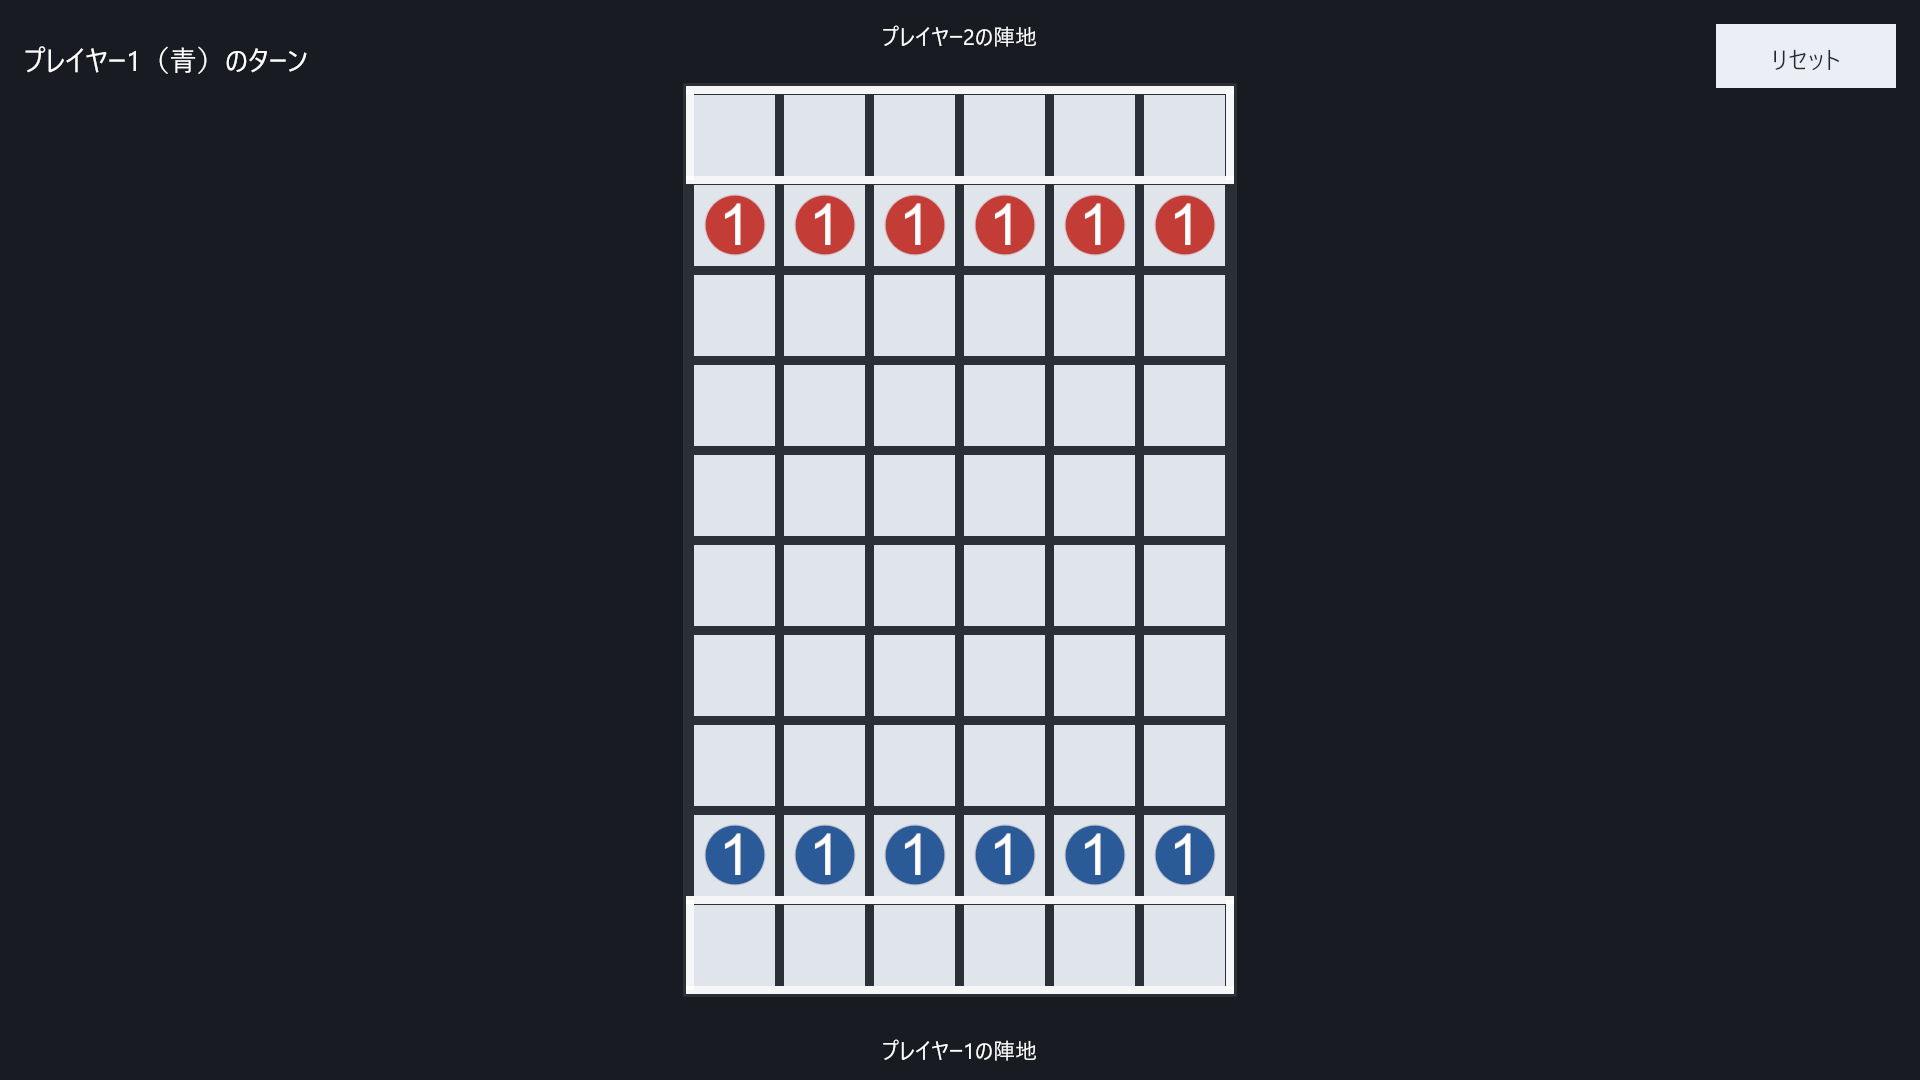
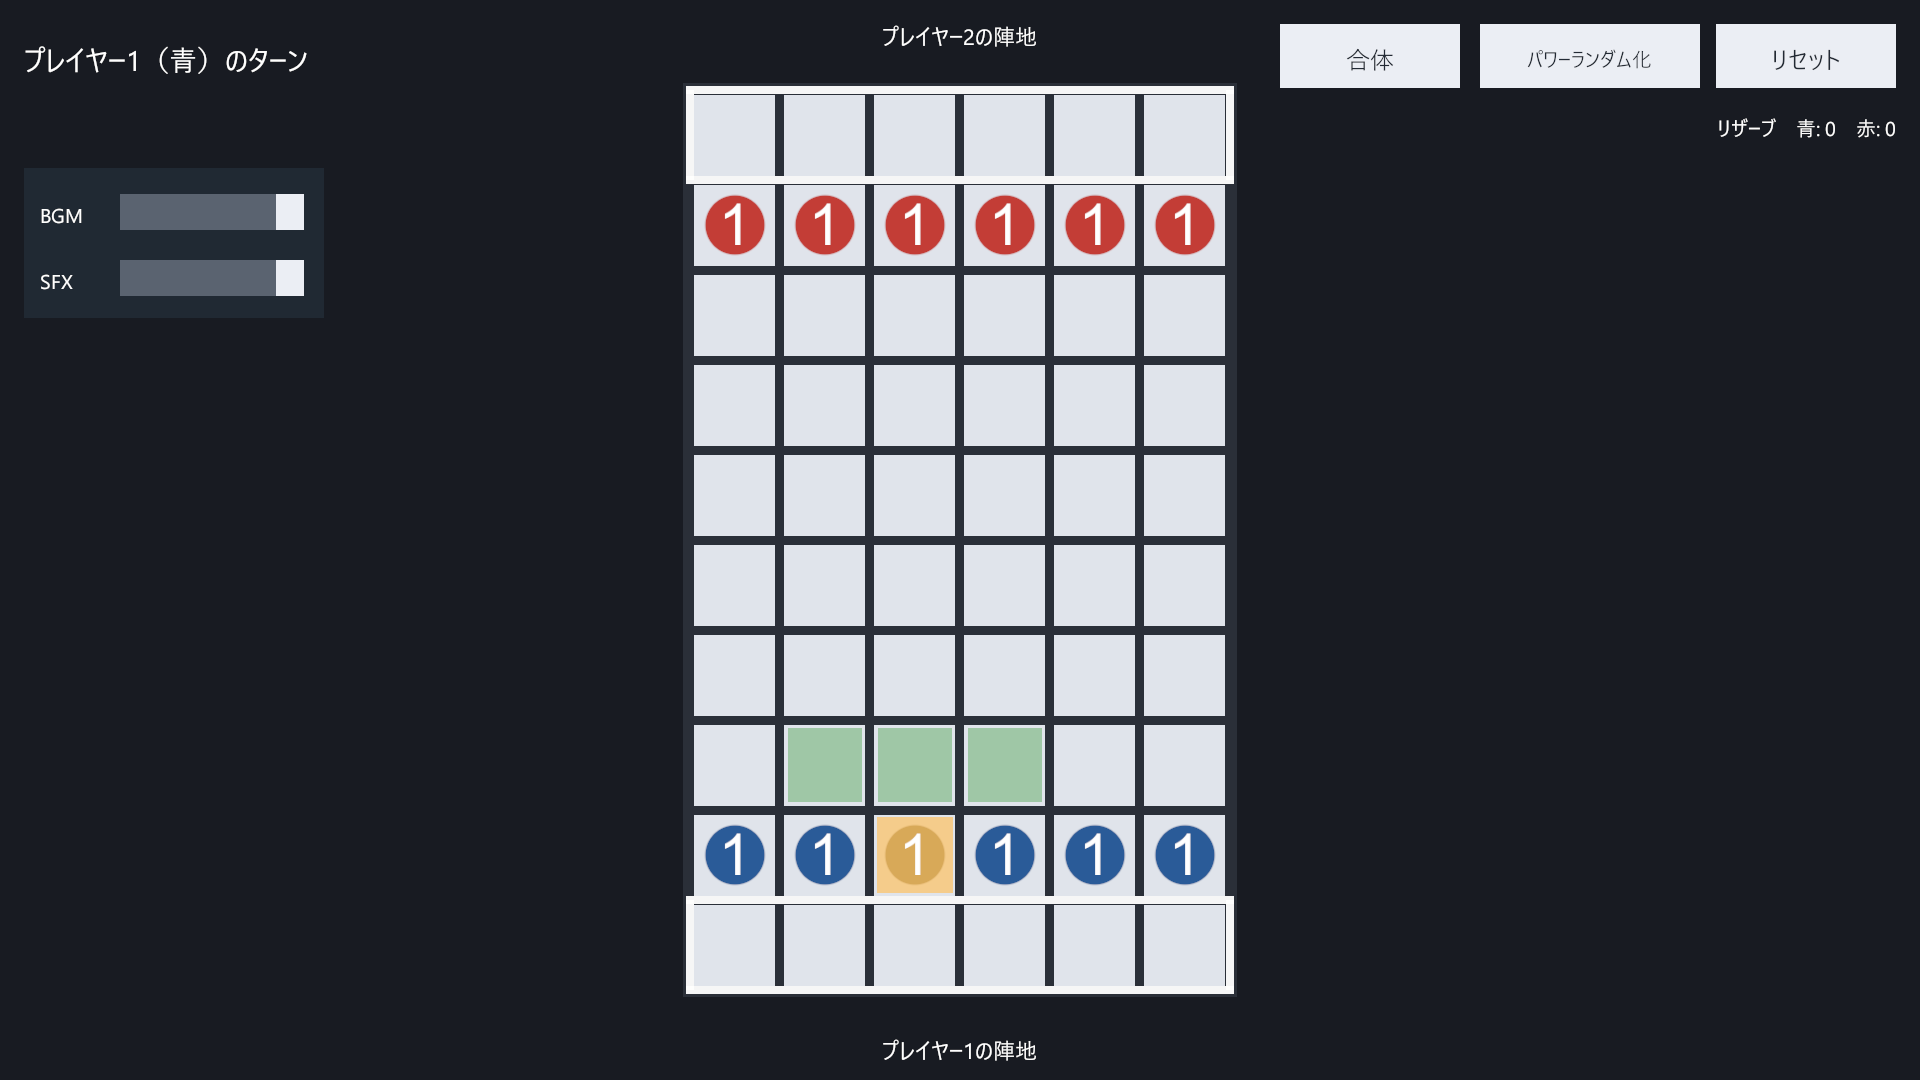
docs: sync documentation with current features

diff --git a/docs/CORE_API.md b/docs/CORE_API.md
@@ -91,7 +91,7 @@ MoveDirections directions = profile.GetDirections(3); // North | South
 |---|---|---|
 | `CellDefinition` | 1マスの固定設定 | 座標、陣地所有者、特殊効果ID |
 | `InitialPieceDefinition` | リセット時に生成する1個の駒の初期設定 | ID、所有者、初期位置、初期戦闘力、移動プロファイルID |
-| `GameDefinition` | ゲーム開始前の設計図 | 盤面サイズ、全セル、全初期駒、先手、移動プロファイル |
+| `GameDefinition` | ゲーム開始前の設計図 | 盤面サイズ、全セル、全初期駒、先手、移動プロファイル、効果定義 |
 | `CellEffectDefinition` | 特殊効果の固定設定 | 効果ID、`WhileOccupied`／`PermanentOncePerPiece` |
 | `PlayerState` | プレイヤーの実行時状態 | 盤外に保管されている`ReservePieceState` |
 | `GameSnapshot` | ある時点のゲーム状態を外部へ見せる読み取り専用コピー | 現在の全駒、セル、効果定義、リザーブ、手番、勝敗 |
@@ -149,17 +149,19 @@ int reserveCount = snapshot.GetPlayer(PlayerId.Player1).ReservePieces.Count;
 bool isGameOver = snapshot.IsGameOver;
 ```
 
-### 4クラスの関係
+### 定義と実行時状態の関係
 
 ```text
 GameDefinition（ゲーム全体の設計図）
 ├─ CellDefinition（各マスの固定設定）
 ├─ PowerMovementProfile（戦闘力別移動設定）
+├─ CellEffectDefinition（特殊効果IDとLifetime）
 └─ InitialPieceDefinition（各駒の初期設定とプロファイルID）
            ↓ GameSessionの開始・Reset
        PieceState（各駒の現在状態）
+       PlayerState（各プレイヤーのリザーブ状態）
            ↓ Snapshot取得
-       GameSnapshot（盤面全体の読み取り専用コピー）
+       GameSnapshot（盤面・効果・プレイヤー状態の読み取り専用コピー）
 ```
 
 ## 4. `GameSession`
@@ -220,6 +222,10 @@ var fusion = new FusePiecesCommand(
     PlayerId.Player1,
     new PieceId(1),
     new PieceId(3));
+
+var randomize = new RandomizePowerCommand(
+    PlayerId.Player1,
+    new PieceId(1));
 ```
 
 Commandの検証順序は[アーキテクチャ §4](ARCHITECTURE.md#4-commandとresult)を参照してください。
@@ -251,7 +257,8 @@ else
 | `CombatResolved` | 攻撃・防御のID、戦闘前後の戦闘力 |
 | `PiecePowerChanged` | `PieceId`, `PreviousPower`, `CurrentPower` |
 | `PieceDestroyed` | `PieceId`, `Position` |
-| `PiecesFused` | 合体元2個と合体後の`PieceId` |
+| `PiecesFused` | 合体元2個と合体後の`PieceId`、`Bonus` |
+| `FusionAttemptFailed` | 合体を試みた2個の`PieceId` |
 | `CellEffectTriggered` | `EffectId`, `PieceId`, `Position` |
 | `CellEffectExpired` | `EffectId`, `PieceId`, `Position` |
 | `ReservePieceAdded` | 追加された`ReservePieceState` |
@@ -265,11 +272,11 @@ else
 
 `ICombatResolver`、`IFusionResolver`、`ICellEffectHandler`を実装するときに受け取る型と返す型です。差し替え口そのものの一覧は[アーキテクチャ §7](ARCHITECTURE.md#7-ruleとplayeragentの差し替え口)、実装手順は[拡張ガイド](EXTENSION_GUIDE.md)を参照してください。
 
-| 型 | 用途 | コンストラクタ引数 |
+| 型 | 用途 | 生成方法・引数 |
 |---|---|---|
 | `CombatResolution` | `ICombatResolver.Resolve`の戻り値 | `damageToAttacker`, `damageToDefender` |
 | `FusionPair` | `IFusionResolver.GetLegalFusions`が返す一覧の要素 | `firstPieceId`, `secondPieceId` |
-| `FusionResolution` | `IFusionResolver.TryResolve`の`out`値 | `resultingPiece` |
+| `FusionResolution` | `IFusionResolver.TryResolve`の`out`値 | `Success(resultingPiece, bonus)`／`Attempted()` |
 | `CellEffectContext` | `ICellEffectHandler.Apply`の引数 | `snapshot`, `piece`, `cell`, `definition` |
 | `CellEffectResult` | `ICellEffectHandler.Apply`の戻り値 | `piece`, `events`, `reservePieceGrants`（後二者は省略可） |
 
@@ -289,4 +296,4 @@ var result = new CellEffectResult(context.Piece.WithCombatPower(3));
 
 `CellEffectResult.Piece`は、ID・所有者・位置が`CellEffectContext.Piece`と同一で、`MovementProfileId`が`GameDefinition`へ登録済みでなければなりません。戦闘力、効果状態、登録済みプロファイルを変更でき、`ReservePieceGrant`でリザーブ追加を要求できます。
 
-`FusionResolution.ResultingPiece`が満たすべき条件と、違反した場合に送出される例外は[拡張ガイド §4](EXTENSION_GUIDE.md#4-合体を有効化する)にあります。
+`FusionResolution.ResultingPiece`が満たすべき条件と、違反した場合に送出される例外は[拡張ガイド §4](EXTENSION_GUIDE.md#4-合体ルールを変更する)にあります。

diff --git a/docs/GAME_RULES.md b/docs/GAME_RULES.md
@@ -41,8 +41,8 @@ y=0  プレイヤー1の陣地（プレイヤー2のゴール）
 
 1. 手番中のプレイヤーは、自分の駒を1個選びます。
 2. 選択した駒の合法な移動先が表示されます。
-3. 移動先を選ぶと、移動または戦闘が1回実行されます。
-4. 正常に実行された後だけ手番が更新されます。
+3. 移動先の選択、パワーランダム化、または合体のいずれかを1回実行します。
+4. 正常な移動・戦闘・ランダム化・合体試行の後に手番が更新されます。合体は判定に失敗しても手番を消費します。
 
 選択時の挙動は次のとおりです。
 
@@ -127,7 +127,25 @@ y=0  プレイヤー1の陣地（プレイヤー2のゴール）
 
 戦闘で攻撃側が消滅した場合、相手陣地のマスを指定していても勝利にはなりません。
 
-## 8. 特殊マスと合体
+## 8. パワーランダム化、合体、特殊マス
+
+### パワーランダム化
+
+自分の手番に自駒を選び、「パワーランダム化」を押すと、その駒の通常戦闘力を1〜3のいずれかへ変更して手番を消費します。結果は現在値と同じになる場合もあります。変更後の実効戦闘力を使って、次に合法手を計算した時点から移動方向も更新されます。
+
+`BlocksPowerRandomization`を持つ特殊効果が適用中または適用済みの駒は使用できません。標準の戦闘力増加効果はランダム化を禁止し、リザーブ駒獲得効果は禁止しません。
+
+### 合体
+
+合体は標準ゲームで有効です。自駒を選んで「合体」を押し、上下左右に1マス隣接する青表示の自駒を選ぶと合体を試行します。
+
+- 25%で大成功し、両駒の通常戦闘力の合計に2を加えます。
+- 50%で成功し、両駒の通常戦闘力の合計に1を加えます。
+- 25%で失敗し、駒は変化しません。
+- 成功・失敗のどちらでも手番を消費します。
+- 成功時は最初に選んだ駒のID、位置、`MovementProfileId`、滞在中効果を維持します。永続効果の適用履歴は両駒から継承し、2個目の駒の滞在中効果は引き継ぎません。
+
+### 特殊マス
 
 特殊マスの仕組みは実装済みですが、`StandardBoardGameConfig.asset`にはまだ配置されていません。
 
@@ -136,9 +154,7 @@ y=0  プレイヤー1の陣地（プレイヤー2のゴール）
 - 戦闘力増加と、盤上へ直接置かないリザーブ駒獲得の標準Handlerがあります。
 - 移動元の滞在中効果を解除してから戦闘し、移動先の効果は攻撃側が生存した後に発動します。
 - 同じセルの効果はIDの記載順に実行します。異なるLifetimeは同じセルに混在できません。
-- 戦闘力効果を保持している駒は「パワーランダム化」を使用できません。
-
-合体は標準ゲームで有効です。隣接する自駒2個を選び、25%で大成功（合計戦闘力+2）、50%で成功（+1）、25%で失敗します。失敗でも手番を消費します。成功時は第一駒のID・位置・プロファイル・滞在中効果を維持し、永続効果履歴は両駒から継承します。
+- 標準の戦闘力増加効果を保持している駒は「パワーランダム化」を使用できません。
 
 ## 9. 表示
 
@@ -162,6 +178,6 @@ y=0  プレイヤー1の陣地（プレイヤー2のゴール）
 
 - マウス: 左クリック
 - タッチ: プライマリタッチの押下
-- UI: リセットボタン上の入力は盤面クリックとして処理しません。
+- UI: リセット、パワーランダム化、合体、音量調節、リザルト上の入力は盤面クリックとして処理しません。
 
-「リセット」を押すと、初期配置、戦闘力、プレイヤー1の手番、選択、移動候補、勝敗状態をすべて初期状態へ戻します。
+「リセット」を押すと、初期配置、戦闘力、効果状態、リザーブ、プレイヤー1の手番、選択、移動・合体候補、勝敗状態をすべて初期状態へ戻します。勝敗確定後はリザルトが背景操作を遮断し、「スタート画面に戻る」でタイトルへ移動します。

diff --git a/docs/EXTENSION_GUIDE.md b/docs/EXTENSION_GUIDE.md
@@ -224,7 +224,12 @@ var session = new GameSession(
 
 ### 設定
 
-`StandardBoardGameConfig.asset`の対象座標へ、Handlerと同じ`EffectId`を実行順に設定します。見た目が必要な場合は`BoardView`へ表示を追加しますが、効果計算はCoreに残します。
+1. `CombatPowerBoostEffectConfig`、`ReservePieceGrantEffectConfig`、または新しい`CellEffectConfig`派生Assetを作成し、固有の`EffectId`とLifetime、効果値を設定します。
+2. 作成したAssetを`StandardBoardGameConfig.asset`の`cellEffectDefinitions`へ登録します。
+3. 対象座標の`cellEffects`へ同じ`EffectId`を実行順に設定します。
+4. 見た目が必要な場合は`BoardView`へ表示を追加しますが、効果計算はCoreに残します。
+
+標準Configは現在どちらの一覧も空で、特殊マスは未配置です。効果定義だけ、または座標のIDだけを設定した状態ではゲーム定義の生成時に拒否されます。
 
 ### テスト
 
@@ -299,9 +304,9 @@ CPU実装は将来の`GCCC.BoardGame.AI`アセンブリへ置き、Coreだけを
 
 ### Core実装
 
-新しい操作が既存のMoveまたはFuseで表現できない場合にだけCommandを追加します。
+新しい操作が既存の`MovePieceCommand`、`FusePiecesCommand`、`RandomizePowerCommand`で表現できない場合にだけCommandを追加します。
 
-Commandの追加はCoreアセンブリ内でのみ可能です。`IGameCommandHandler`は`internal`、`GameSession.ExecuteMove`と`ExecuteFusion`も`internal`で、Handlerの登録先は`GameSession`のコンストラクタ内にある固定配列です。外部アセンブリからHandlerを登録する口はありません。他の拡張と違って`GameSession`本体の変更を伴うため、[§1](#1-拡張時の共通原則)のとおり契約だけを先行PRとして確定してから進めます。
+Commandの追加はCoreアセンブリ内でのみ可能です。`IGameCommandHandler`と`GameSession`の各操作実行メソッドは`internal`で、Handlerの登録先は`GameSession`のコンストラクタ内にある固定配列です。外部アセンブリからHandlerを登録する口はありません。他の拡張と違って`GameSession`本体の変更を伴うため、[§1](#1-拡張時の共通原則)のとおり契約だけを先行PRとして確定してから進めます。
 
 1. Core Commandsへ`GameCommand`派生型を追加します。
 2. `IGameCommandHandler`実装を追加します。

diff --git a/docs/DEVELOPMENT.md b/docs/DEVELOPMENT.md
@@ -32,12 +32,13 @@ Set-Location GCCC2026_GroupA
 1. Game Viewを16:9にし、タイトルと「ゲーム開始」が表示されることを確認します。
 2. 「ゲーム開始」で`SampleScene`へ移動します。
 3. プレイヤー1の青い駒を選択し、緑の空きマスへ移動できることを確認します。
-4. 手番がプレイヤー2へ変わることを確認します。
-5. オレンジの敵駒マスへ移動すると戦闘が発生することを確認します。
-6. 移動・戦闘・破壊・合体で対応する効果音が再生され、BGM／SFXスライダーが音量へ反映されることを確認します。
-7. リセットで12駒とプレイヤー1の手番へ戻ることを確認します。
-8. 勝敗確定後にリザルトが表示され、背後の操作と音量スライダーが無効になることを確認します。
-9. 「スタート画面に戻る」でBGMが停止し、タイトルへ戻ることを確認します。
+4. 「パワーランダム化」で選択駒の通常戦闘力が1〜3に設定され、結果が同じ値でも手番を消費することを確認します。
+5. 隣接する自駒を選び、「合体」から青表示の候補を選ぶと成功・大成功・失敗の結果が表示され、手番を消費することを確認します。
+6. オレンジの敵駒マスへ移動すると戦闘が発生することを確認します。
+7. 移動・戦闘・破壊・合体で対応する効果音が再生され、BGM／SFXスライダーが音量へ反映されることを確認します。
+8. リセットで12駒、効果・リザーブなし、プレイヤー1の手番へ戻ることを確認します。
+9. 勝敗確定後にリザルトが表示され、背後の操作と音量スライダーが無効になることを確認します。
+10. 「スタート画面に戻る」でBGMが停止し、タイトルへ戻ることを確認します。
 
 ## 4. フォルダと担当境界
 
@@ -50,6 +51,8 @@ Set-Location GCCC2026_GroupA
 | 特殊マス | `Core/Rules/CellEffects`、Config | 盤面担当 |
 | 入力 | `Presentation/Input`、Coordinator | 入力担当 |
 | 表示 | `Presentation/Views`、Prefab | UI担当 |
+| 音声 | `Presentation/Audio`、`Resources/Audio` | 音声担当 |
+| Scene遷移 | `Presentation/Bootstrap`、`Scenes` | UI・統合担当 |
 | CPU | 将来の`AI`アセンブリ | AI担当 |
 | 統合 | Bootstrap、Scene、asmdef | 担当者間で調整 |
 

diff --git a/README.md b/README.md
@@ -20,7 +20,7 @@ Unity 6で開発している、2人対戦の陣地到達型ボードゲームで
 | 2人の交互手番 | 実装済み | 自動パス・引き分けを含む |
 | 戦闘力別の1マス移動 | 実装済み | 移動プロファイルの方向フラグに対応 |
 | 同時相互ダメージ戦闘 | 実装済み | 戦闘力の更新・消滅を含む |
-| 陣地到達勝利 | 実装済み | リセットまで入力を停止 |
+| 陣地到達勝利 | 実装済み | リザルト表示中は盤面と背景UIの入力を停止 |
 | マウス・タッチ入力 | 実装済み | UI上の入力は盤面へ伝播しない |
 | 戦闘力ランダム化 | 実装済み | 選択した自駒を1〜3へ変更して手番を消費 |
 | 合体 | 実装済み | 隣接する自駒同士を確率判定で合体 |
@@ -45,8 +45,10 @@ Unity 6で開発している、2人対戦の陣地到達型ボードゲームで
 2. Unity `6000.3.11f1`で`Assets/Scenes/TitleScene.unity`を開きます。
 3. Game Viewを16:9にして再生し、「ゲーム開始」を押します。
 4. 自分の駒をクリックし、緑またはオレンジで示された移動先をクリックします。
-5. 左上のBGM／SFXスライダーで音量を調節できます。
-6. ゲーム終了後は「スタート画面に戻る」でタイトルへ戻れます。初期状態へ戻す場合は右上の「リセット」を押します。
+5. 選択中の駒で「パワーランダム化」を押すと、通常戦闘力を1〜3へ変更して手番を消費します。
+6. 隣接する自駒がいる場合は「合体」を押し、青く示されたもう一方の自駒を選ぶと合体を試行します。
+7. 左上のBGM／SFXスライダーで音量を調節できます。
+8. ゲーム終了後は「スタート画面に戻る」でタイトルへ戻れます。初期状態へ戻す場合は右上の「リセット」を押します。
 
 テストの実行方法は[テストガイド](docs/TESTING.md)を参照してください。
 
